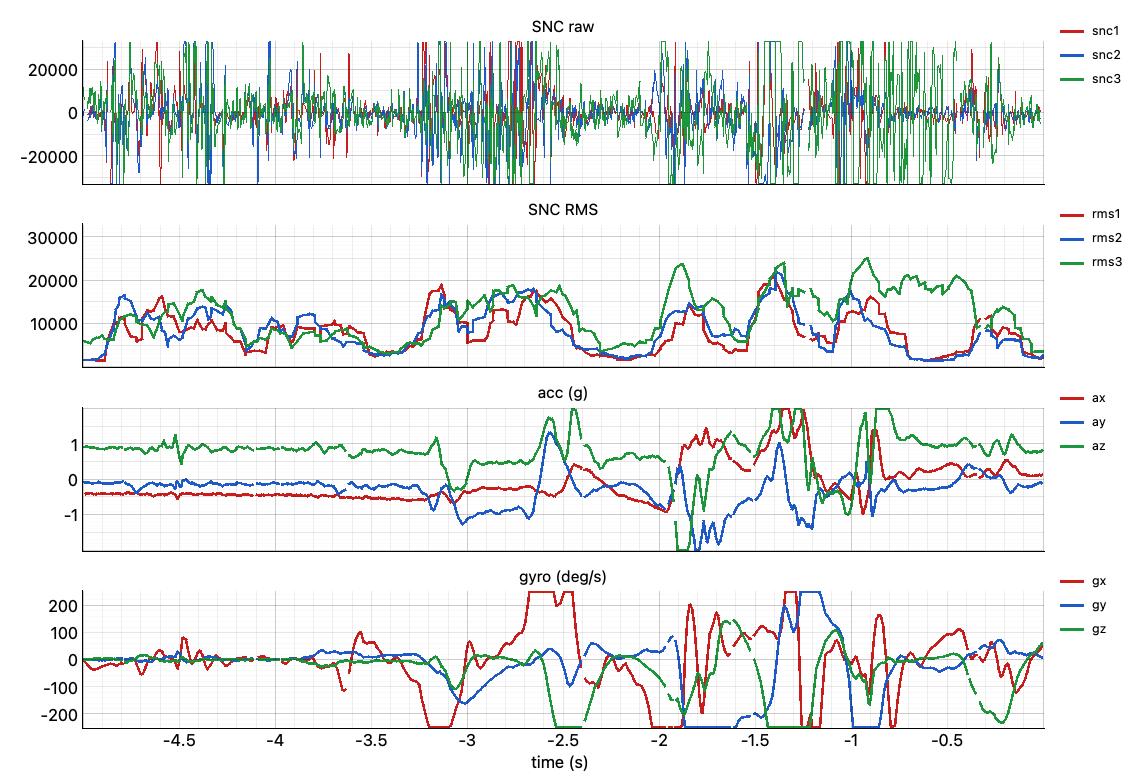
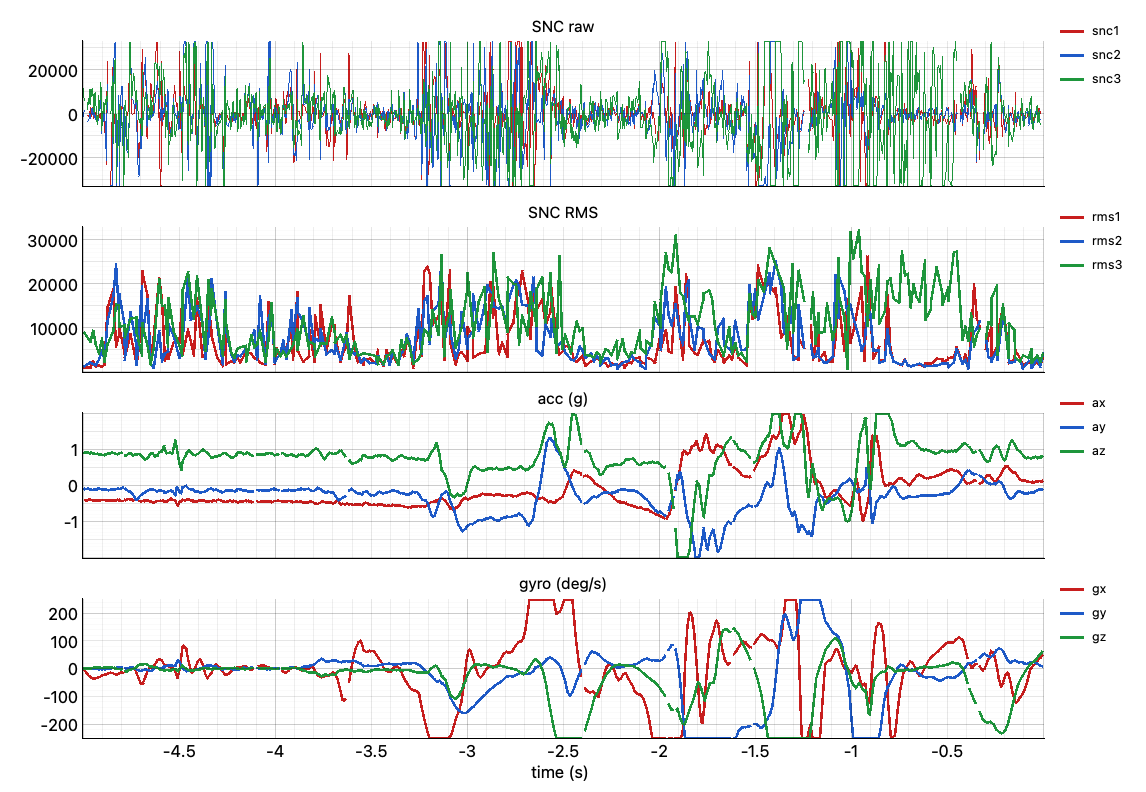
live-viewer: SNC RMS unsmoothed by default, as upstream

diff --git a/tests/test_live_viewer.py b/tests/test_live_viewer.py
@@ -57,11 +57,23 @@ def test_after_a_gap_the_median_interval_is_used():
     assert not conn[-9] and conn[-8:-1].all()   # broken only across the gap
 
 
+def test_rms_default_is_each_packets_value_as_upstream():
+    rms = [3.0, 4.0, 0.0, 0.0, 0.0, 0.0, 0.0, 12.0]
+    lines = [_row(10 * p, "snc", [1, 2, 3, r, 5, float("nan")])
+             for p, r in enumerate(rms) for _ in range(18)]
+    s = lv.make_signals(100.0)
+    lv.Reader(io.StringIO("".join(lines)), HEADER, s).run()
+    t, v = s["snc"].arrays()
+    assert np.allclose(t, 0.01 * np.arange(8))                 # one point per packet
+    assert v[:, 0].tolist() == rms                             # unsmoothed
+    assert np.allclose(v[:, 1], 5) and np.isnan(v[:, 2]).all()
+
+
 def test_rms_one_point_per_packet_moving_rms_of_6_packets():
     rms = [3.0, 4.0, 0.0, 0.0, 0.0, 0.0, 0.0, 12.0]
     lines = [_row(10 * p, "snc", [1, 2, 3, r, 5, float("nan")])
              for p, r in enumerate(rms) for _ in range(18)]
-    _, s = _read(lines)
+    _, s = _read(lines, rms_packets=6)
     t, v = s["snc"].arrays()
     assert np.allclose(t, 0.01 * np.arange(8))                 # one point per packet
     want = [np.sqrt(np.mean(np.square(rms[max(0, p - 5):p + 1]))) for p in range(8)]

diff --git a/README.md b/README.md
@@ -68,11 +68,11 @@ samples evenly over the time since the previous packet. acc / gyro samples
 go on the device clock when `device_ts` is present (8 per record, evenly over
 the record's device-time interval, mapped to host time by a running linear
 fit of arrival against device time), else they are spread like SNC. SNC RMS
-is shown as the RMS over the last 6 packets (display only; `--rms-packets 1`
-draws each packet's values as upstream, `--rms-packets N` sets the window).
-Each signal is plotted only where it has values, and a line breaks where two
-samples are more than twice the usual interval apart (so lost IMU records
-show as short gaps). SNC raw is drawn as the min / max per pixel column, the
+shows each packet's values, as upstream; `--rms-packets N` shows the RMS over
+the last N packets instead (display only, e.g. 6 for ~100 ms). Each signal
+is plotted only where it has values, and a line breaks where two samples are
+more than twice the usual interval apart (so lost IMU records show as short
+gaps). SNC raw is drawn as the min / max per pixel column, the
 other lines as the min / max of a few hundred bins (peaks and railing stay
 visible), without antialiasing, so the viewer keeps up with a live session.
 

diff --git a/live-viewer/README.md b/live-viewer/README.md
@@ -4,11 +4,11 @@ Live plot of a `mudrarecord stream-csv` stream read from stdin:
 
 Panels: SNC raw (-32768..32767), SNC RMS (0..32768), acc (±2 g), gyro
 (±250 deg/s), fixed y axes, on one time axis in seconds before the newest
-row. `--width` sets the time window (default 5s). SNC RMS is smoothed over
-the last 6 packets (~100 ms); `--rms-packets 1` draws each packet's values
-as upstream, `--rms-packets N` sets the window:
+row. `--width` sets the time window (default 5s). SNC RMS shows each
+packet's values, as upstream; `--rms-packets N` smooths it to the RMS over
+the last N packets (6 is ~100 ms):
 
-    mudrarecord stream-csv | live-viewer/live-viewer --width=5s --rms-packets 1
+    mudrarecord stream-csv | live-viewer/live-viewer --width=5s --rms-packets 6
 
 Upstream's options also work: one panel per `--group` (column numbers like
 `4-9`, a pattern on the column names like `a*`, or a channel token like
